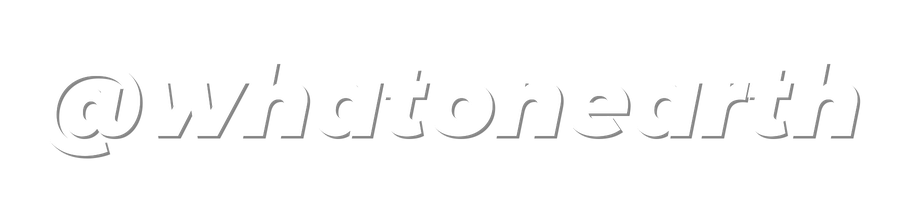
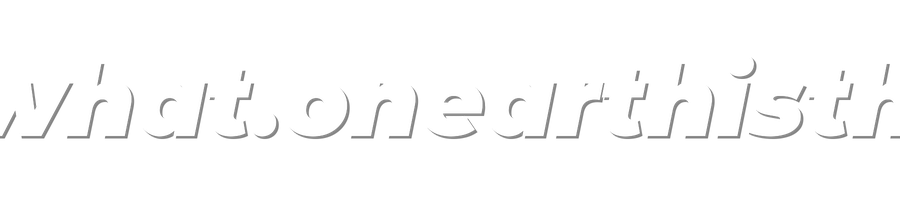
feat(whatonearth): despliegue IG — scheduler + branding con handle real
- run_daily_whatonearth.bat (job del Programador, 2x/día 14:00 y 21:00).
- branding: handle real @what.onearthisthat (watermark/banner/icon regenerados).
IG YA posteando (primer reel publicado). TikTok pendiente (auth con app existente).

diff --git a/branding/make_assets.py b/branding/make_assets.py
@@ -17,7 +17,7 @@ BRANDS = {
     "whatonearth": {
         "big": "?!", "name": "WHAT ON\nEARTH", "tag": "SATISFYING · WEIRD · NATURE",
         "c1": (22, 170, 150), "c2": (8, 48, 60), "accent": (255, 216, 92), "symbol": "q",
-        "handle": "@whatonearth",
+        "handle": "@what.onearthisthat",
     },
     "streamers_a": {
         "big": "CLIPS", "name": "HISPANOS", "tag": "LOS MEJORES MOMENTOS",
